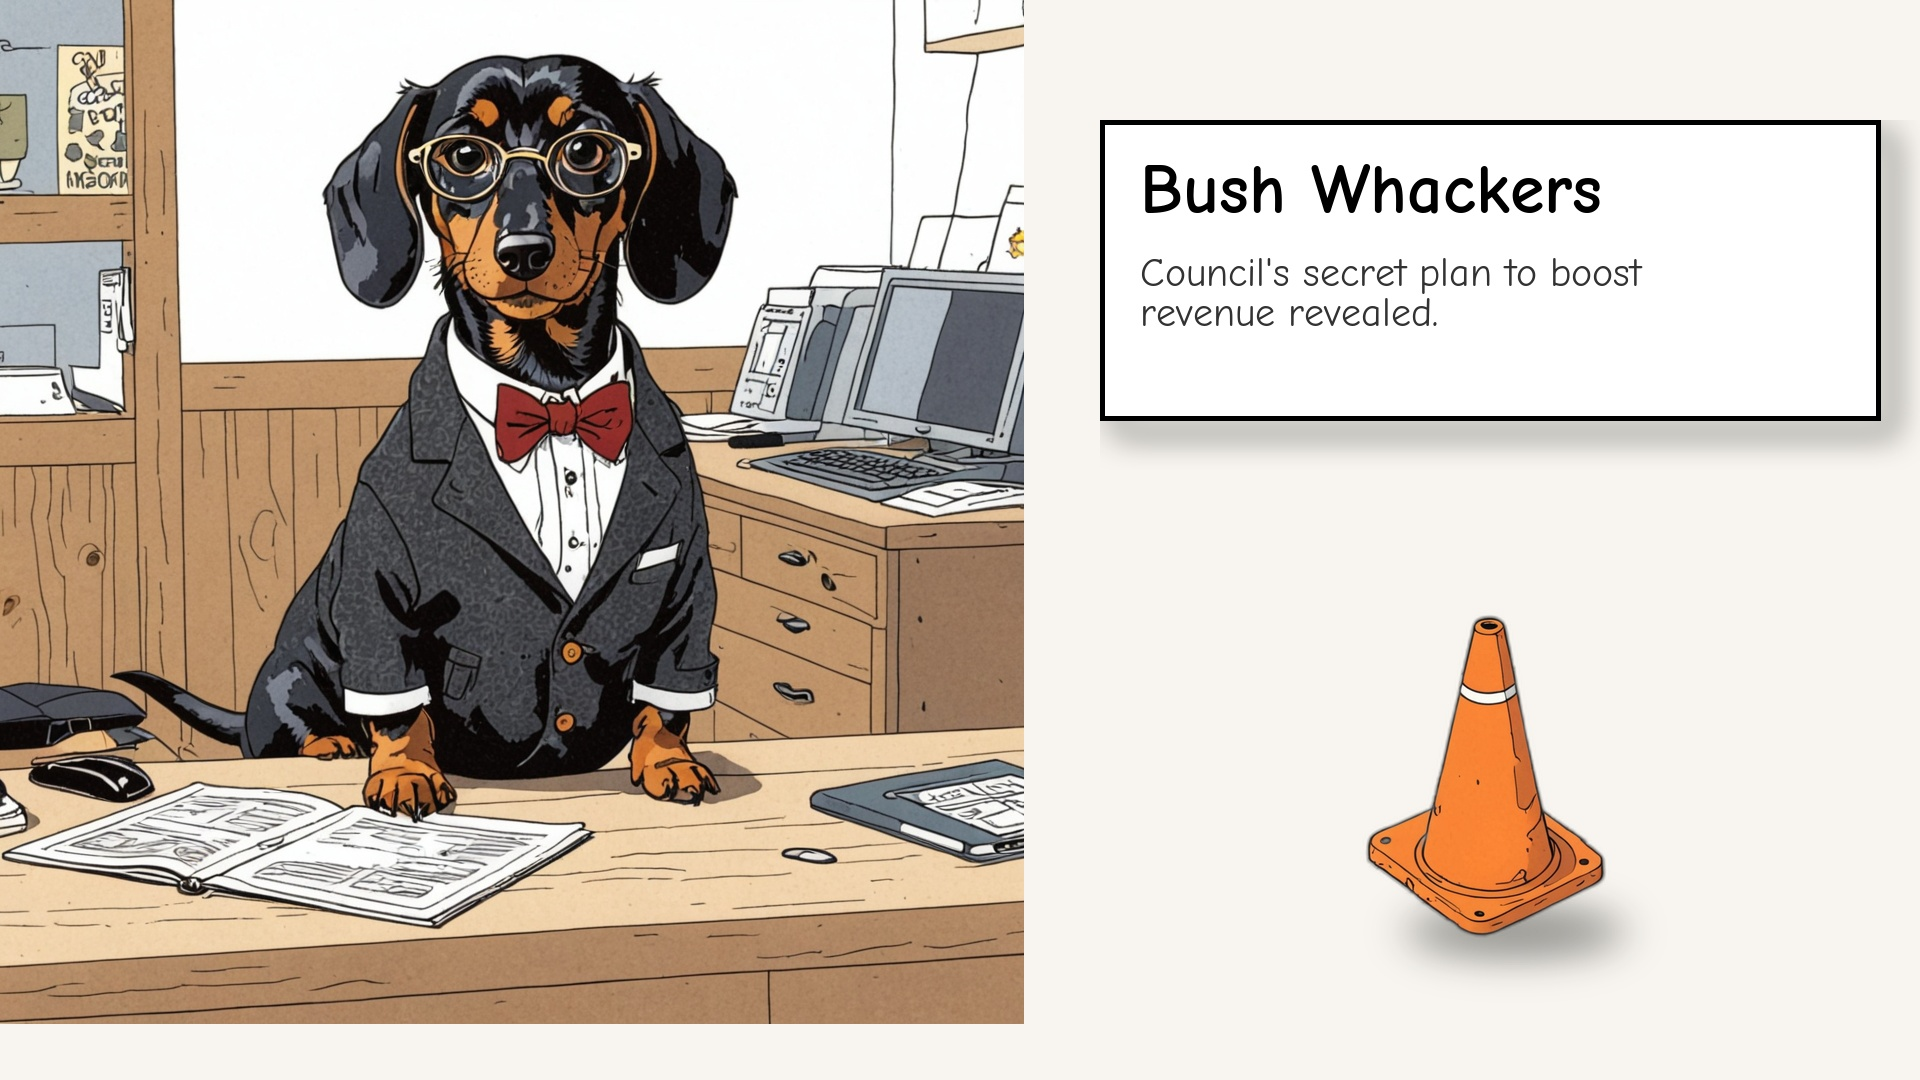
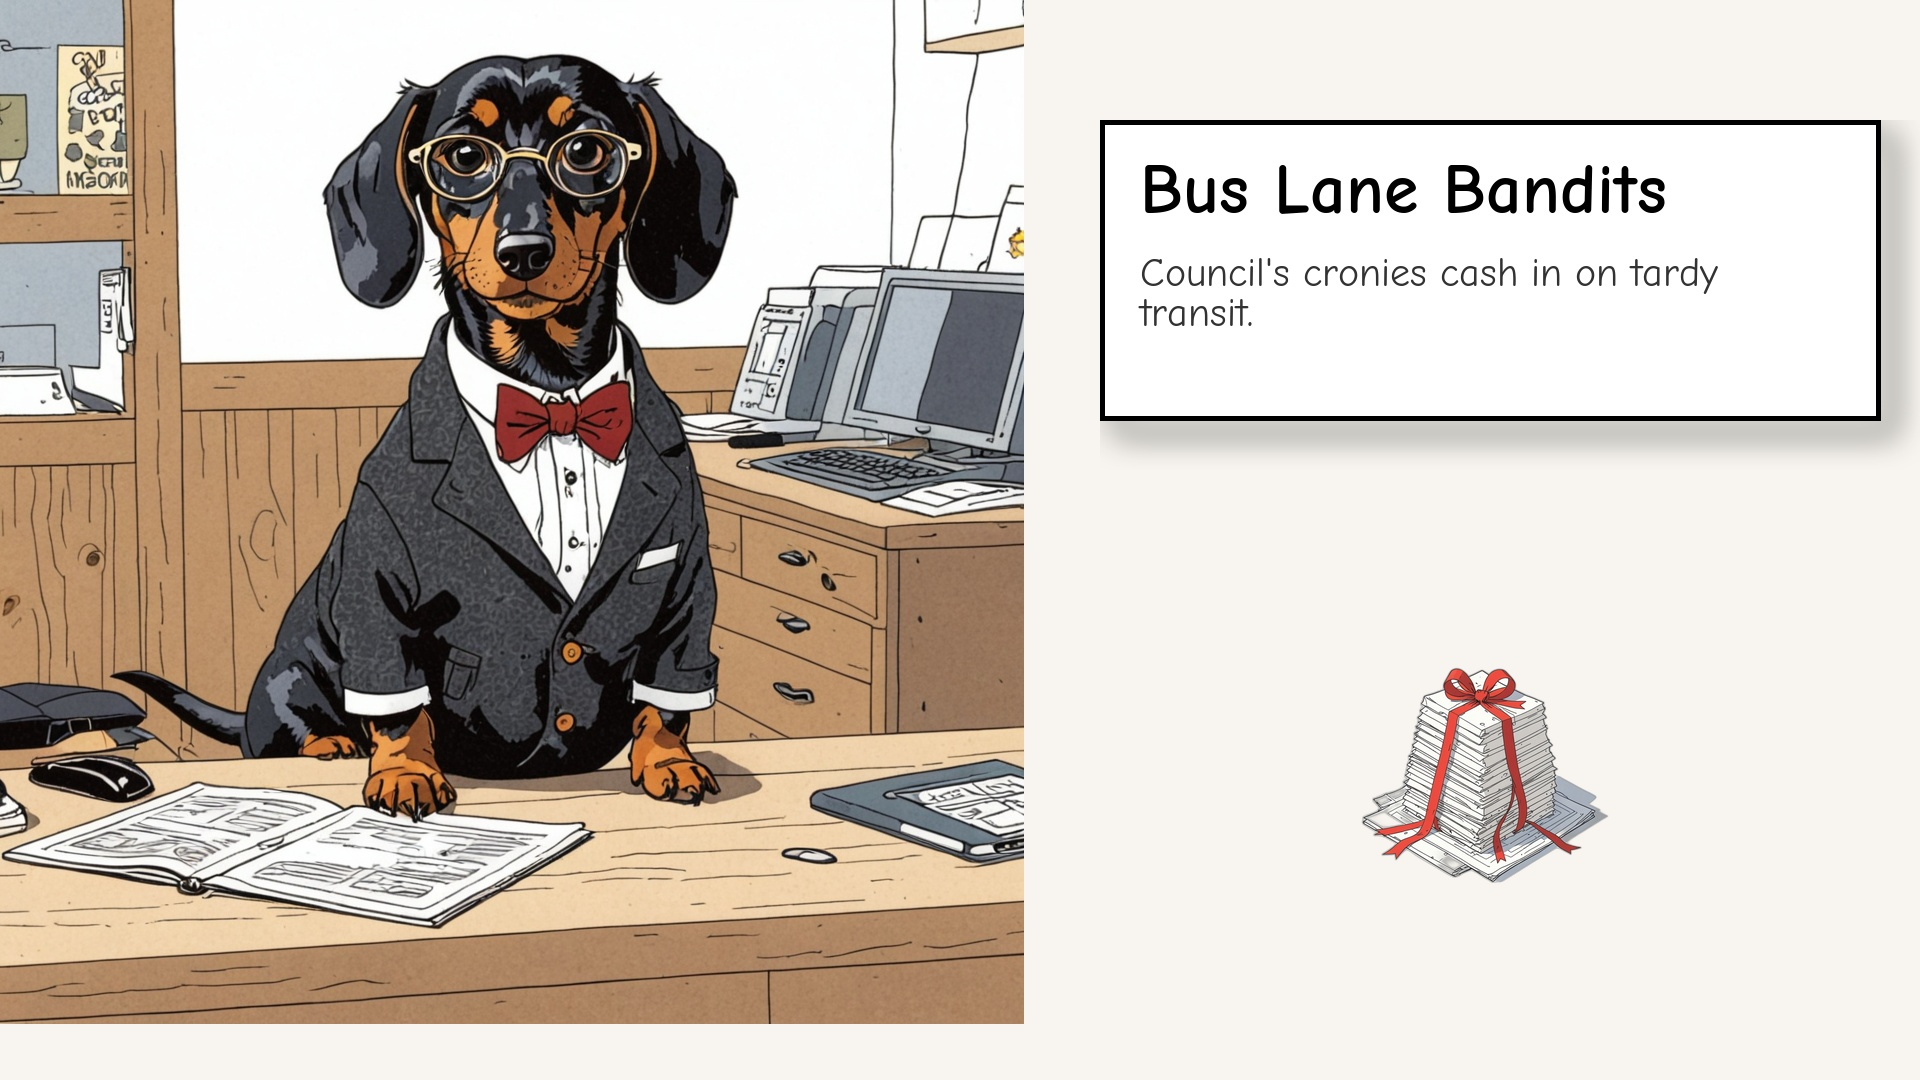
Added Professor and removed shadows

Changed region(s): [[0.6875, 0.55, 0.8438, 0.9167], [0.6562, 0.1528, 0.875, 0.2139], [0.5938, 0.2444, 0.9062, 0.3056]]

diff --git a/app/page.tsx b/app/page.tsx
@@ -3,10 +3,11 @@ import issueData from "./data/current_issue.json";
 
 export default function Home() {
   return (
-    <main className="min-h-screen bg-[#FDFBF7] text-slate-800 font-sans selection:bg-orange-200">
+    <main className="min-h-screen bg-[#FDFBF7] text-slate-800 font-sans selection:bg-orange-200 pb-20">
+      
       {/* --- HEADER --- */}
       <nav className="border-b-2 border-slate-900 bg-white py-6">
-        <div className="max-w-5xl mx-auto px-6 flex justify-between items-center">
+        <div className="max-w-4xl mx-auto px-6 flex justify-between items-center">
           <div>
             <h1 className="text-3xl font-black tracking-tighter text-slate-900 uppercase">
               The Remy Digest
@@ -23,9 +24,9 @@ export default function Home() {
       </nav>
 
       {/* --- MAIN STAGE --- */}
-      <div className="max-w-5xl mx-auto px-4 py-12">
+      <div className="max-w-4xl mx-auto px-4 py-12">
         
-        {/* The Factory Image (Hero) */}
+        {/* HERO IMAGE */}
         <section className="shadow-[8px_8px_0px_0px_rgba(0,0,0,1)] border-2 border-slate-900 rounded-lg overflow-hidden bg-white mb-12">
            <img 
              src={issueData.imagePath} 
@@ -34,27 +35,32 @@ export default function Home() {
            />
         </section>
 
-        {/* The Text Content (For SEO & Accessibility) */}
-        <article className="max-w-2xl mx-auto text-center">
+        {/* HEADLINE SECTION */}
+        <article className="max-w-2xl mx-auto text-center mb-16">
           <span className="inline-block bg-slate-900 text-white text-xs font-bold px-3 py-1 mb-4 rounded-full uppercase tracking-wider">
             {issueData.category}
           </span>
-          
           <h2 className="text-4xl md:text-5xl font-black text-slate-900 mb-6 leading-tight">
             {issueData.headline}
           </h2>
-          
           <p className="text-xl md:text-2xl text-slate-600 font-serif italic leading-relaxed">
             "{issueData.subtext}"
           </p>
-
-          <div className="mt-12 pt-12 border-t border-slate-200">
-             <p className="text-sm text-slate-400 font-mono">
-               System Status: {issueData.category} LEVEL CRITICAL<br/>
-               Next Update: SCHEDULED
-             </p>
-          </div>
         </article>
+
+        {/* --- THE PROFESSOR'S CORNER --- */}
+        <section className="max-w-2xl mx-auto bg-[#F2EFE9] border-l-4 border-slate-400 p-8 rounded-r-lg">
+           <div className="flex items-start gap-4">
+              <div className="flex-1">
+                 <h3 className="text-sm font-bold uppercase tracking-widest text-slate-500 mb-2">
+                    {issueData.professor.title}
+                 </h3>
+                 <p className="text-lg font-serif text-slate-800 leading-relaxed">
+                    {issueData.professor.content}
+                 </p>
+              </div>
+           </div>
+        </section>
 
       </div>
     </main>
